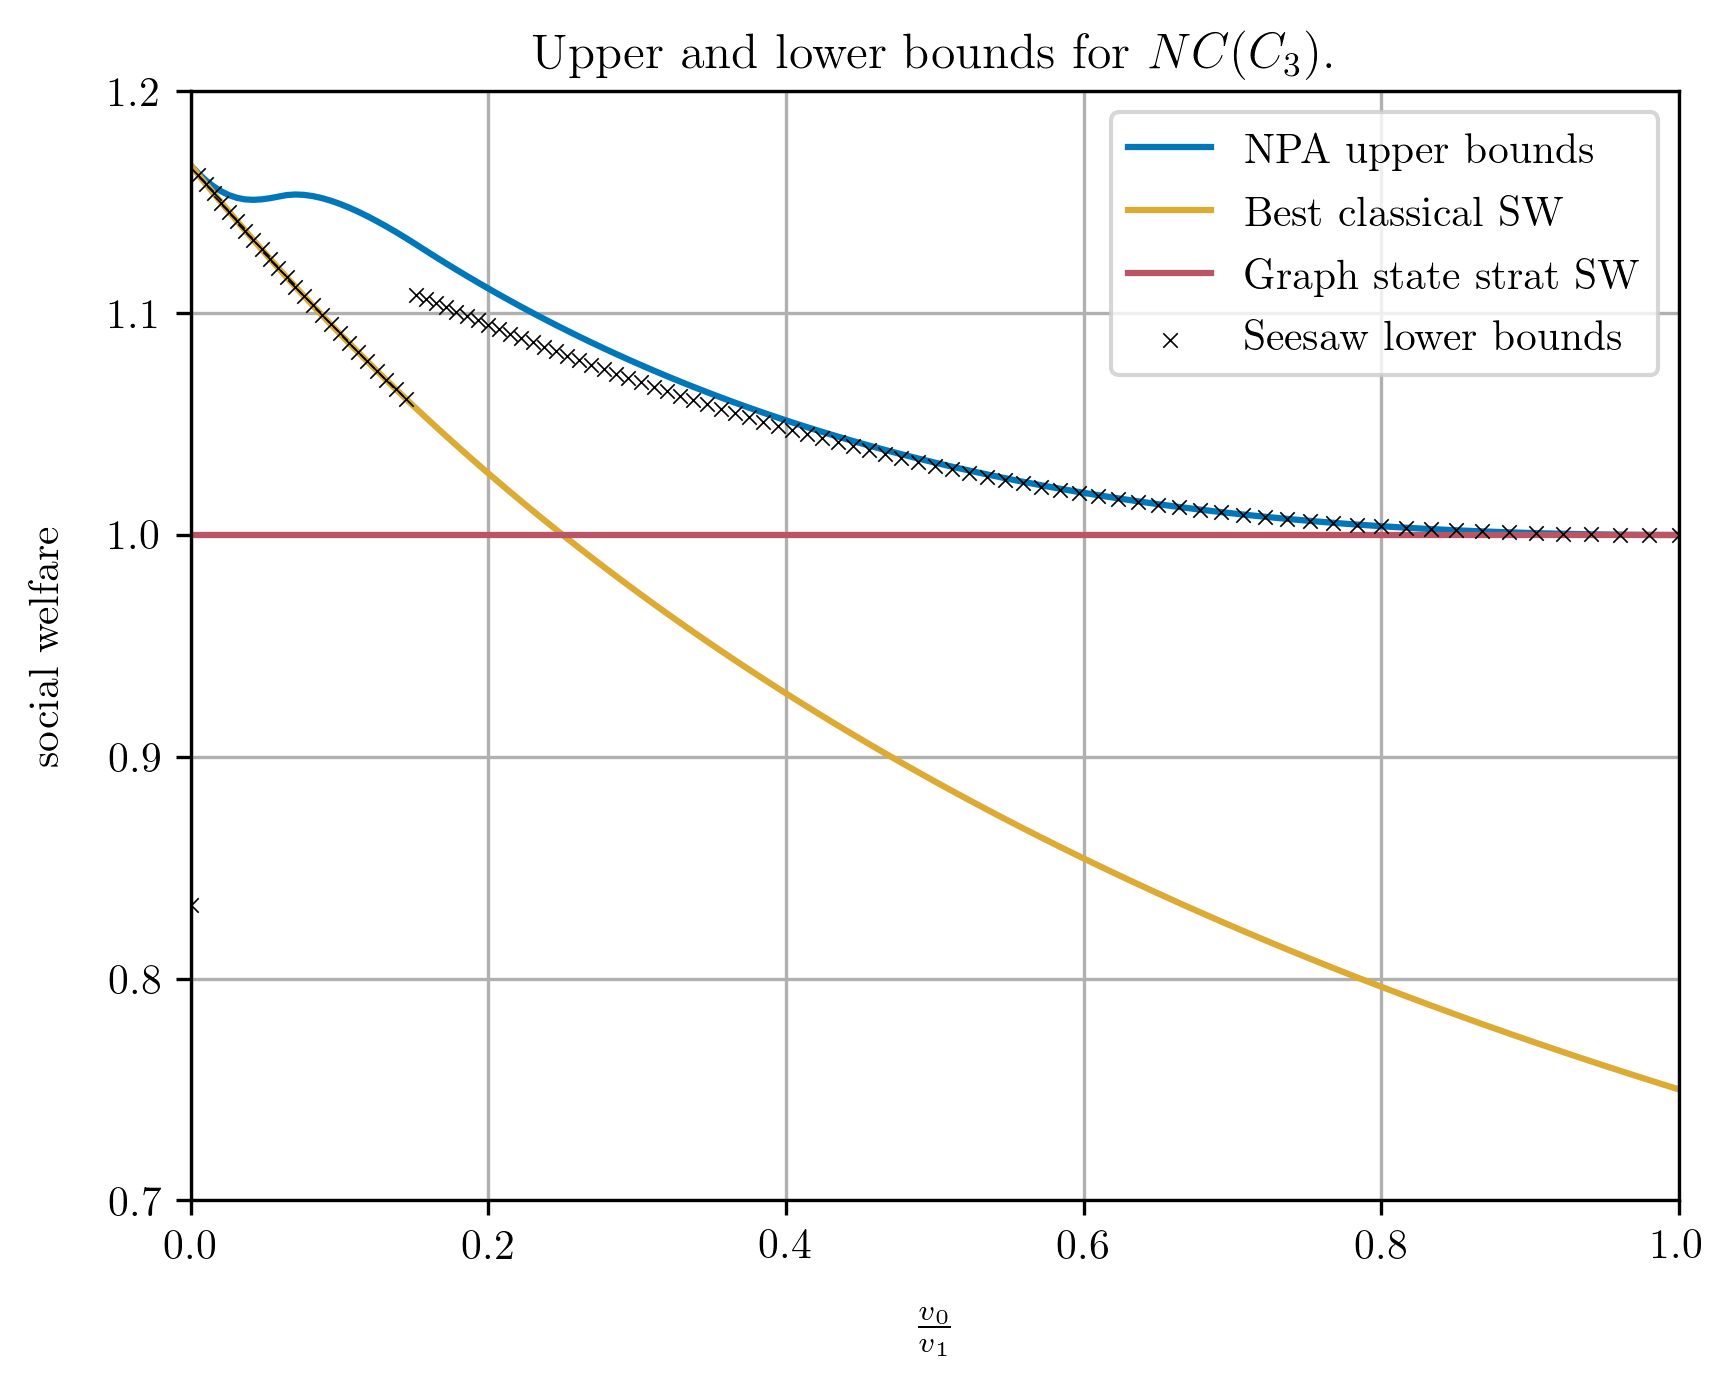
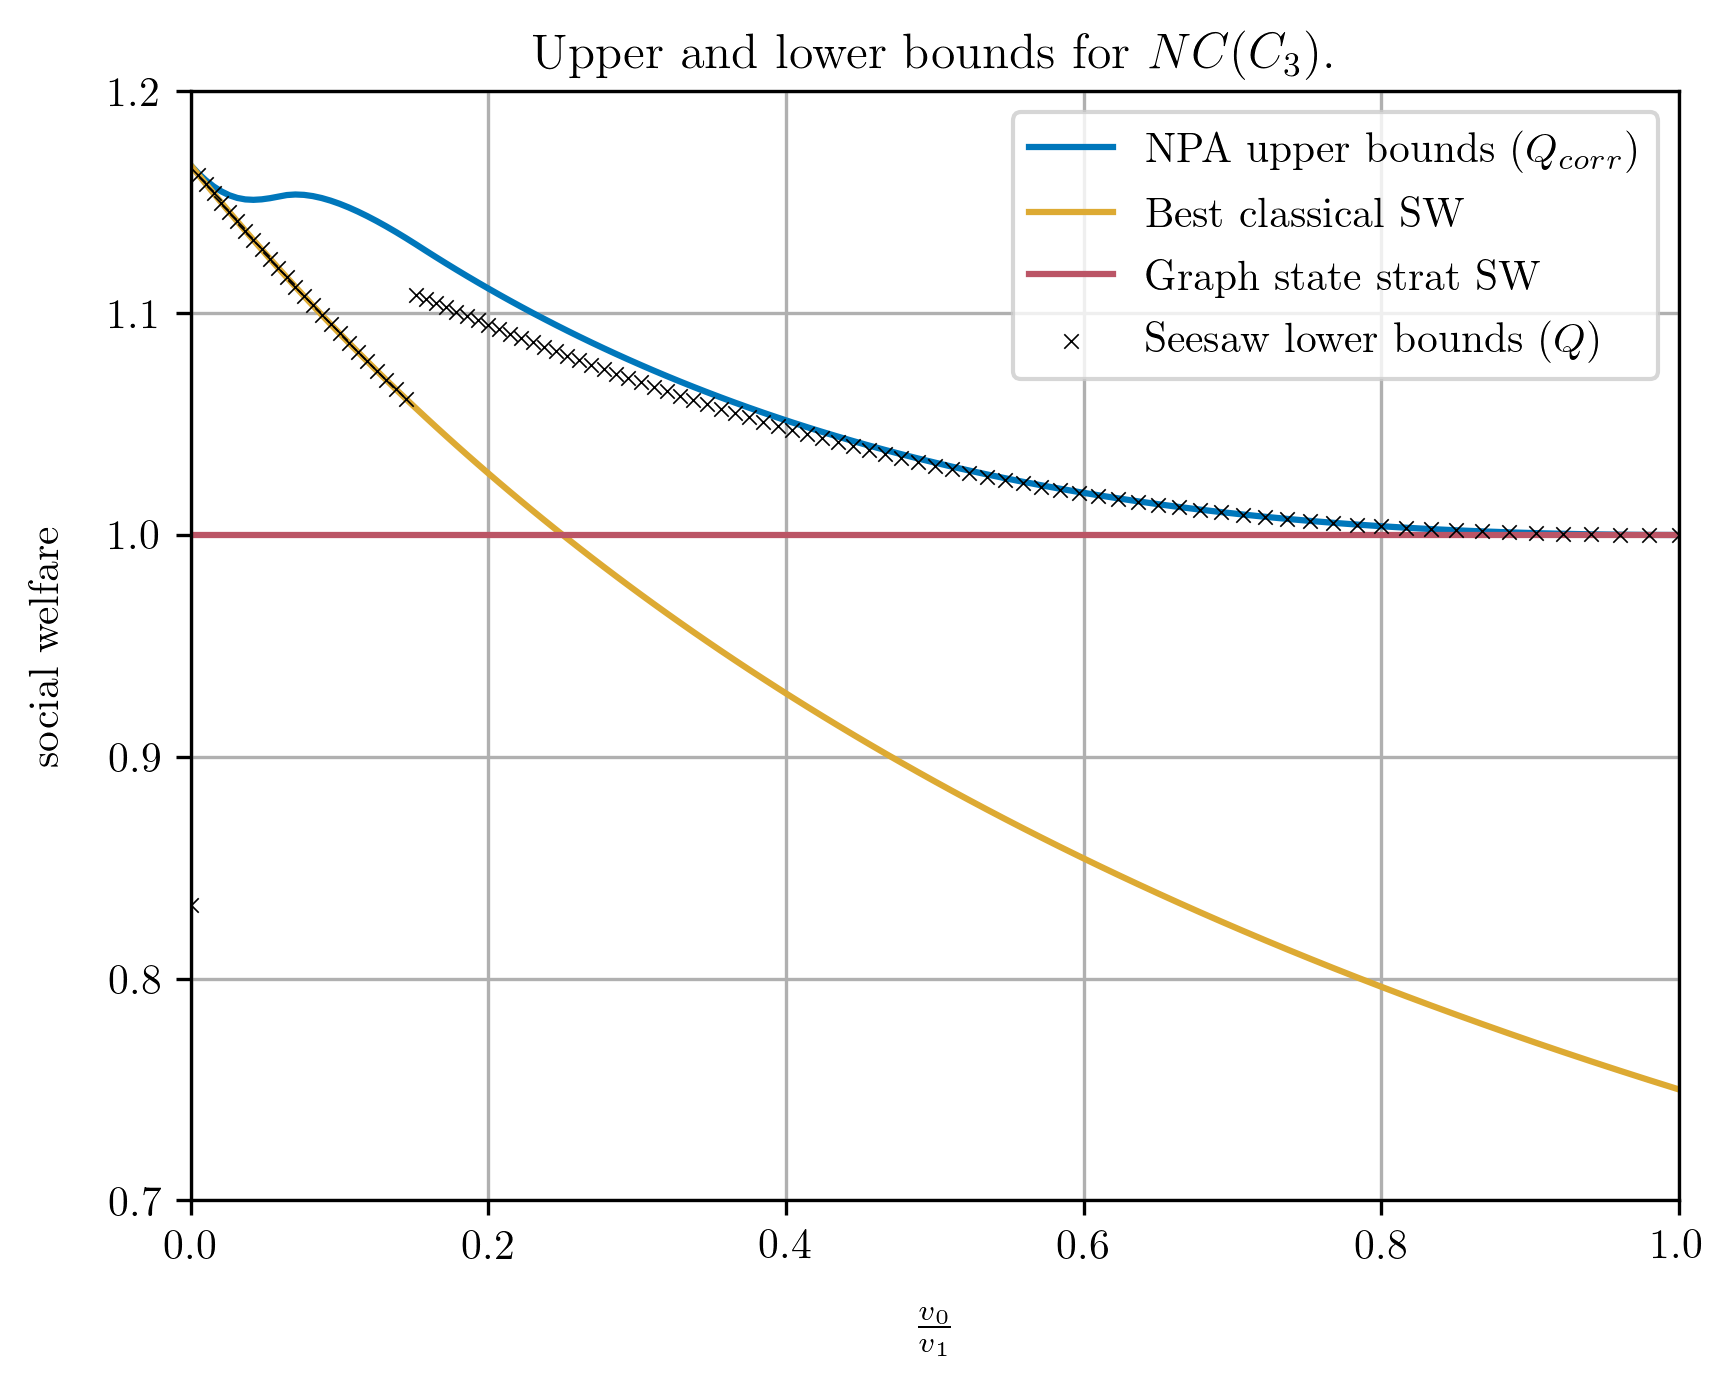
plots v0 + v1 = constante

Changed region(s): [[0.5914, 0.062, 0.9648, 0.2792]]

diff --git a/plot.py b/plot.py
@@ -36,9 +36,9 @@ def plotSeeSaw5():
 
     x = list(map(abscisseFunc, x)) # x abscisse is v0/v1
 
-    plt.scatter(x, seesaw, s=12, marker='x', color = 'k', linewidths=0.4, label="Seesaw lower bounds", zorder=3)
+    plt.scatter(x, seesaw, s=12, marker='x', color = 'k', linewidths=0.4, label="Seesaw lower bounds ($Q$)", zorder=3)
 
-    plt.plot(x, hierarchieNash, "-", label="NPA upper bounds")
+    plt.plot(x, hierarchieNash, "-", label="NPA upper bounds ($Q_{corr}$)")
     p1 = plt.plot(xclassical1, classical1, linestyle="-", label="Best classical SW")
     plt.plot(xclassical2, classical2, color = p1[0].get_color(), linestyle="-")
 
@@ -75,8 +75,8 @@ def plotSeesaw3():
     graphState = list(map(lambda v0: (2 - v0 + v0)/2, xGraphState))
 
     x = list(map(abscisseFunc, x))
-    plt.scatter(x, seesaw, s=12, marker='x', color = 'k', linewidths=0.4, label="Seesaw lower bounds", zorder=3)
-    plt.plot(x, hierarchieNash, "-", label="NPA upper bounds")
+    plt.scatter(x, seesaw, s=12, marker='x', color = 'k', linewidths=0.4, label="Seesaw lower bounds ($Q$)", zorder=3)
+    plt.plot(x, hierarchieNash, "-", label="NPA upper bounds ($Q_{corr}$)")
 
     plt.plot(xclassical, classical, linestyle="-", label="Best classical SW")
 
@@ -122,9 +122,9 @@ def plotSeeSaw5Sym():
 
     x = list(map(abscisseFunc, x))
 
-    plt.scatter(x, seesaw, s=12, marker='x', color = 'k', linewidths=0.4, label="Seesaw lower bounds", zorder=3)
+    plt.scatter(x, seesaw, s=12, marker='x', color = 'k', linewidths=0.4, label="Seesaw lower bounds ($Q$)", zorder=3)
 
-    plt.plot(x, hierarchieNash, "-", label="NPA upper bounds")
+    plt.plot(x, hierarchieNash, "-", label="NPA upper bounds ($Q_{corr}$)")
     p1 = plt.plot(xclassical1, classical1, linestyle="-", label="Best classical SW")
     plt.plot(xclassical2, classical2, color = p1[0].get_color(), linestyle="-")
 
